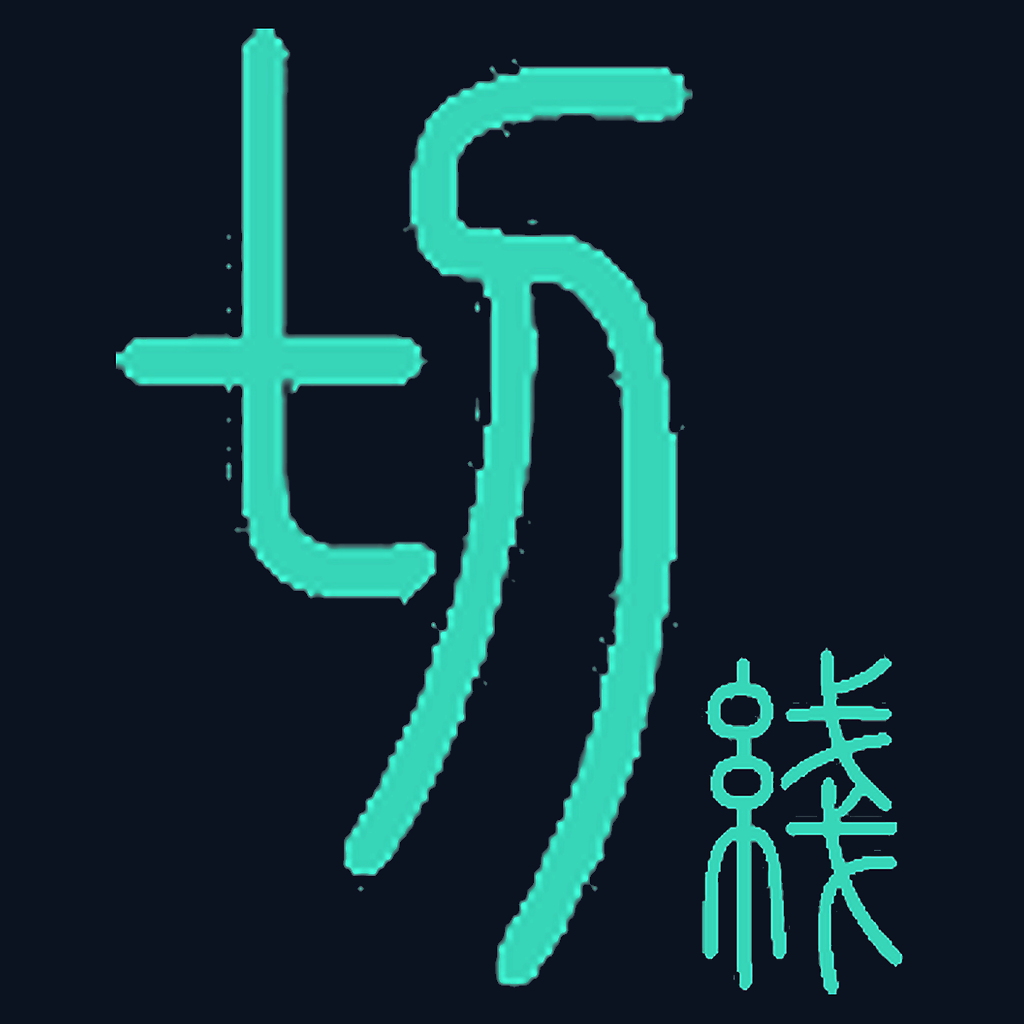
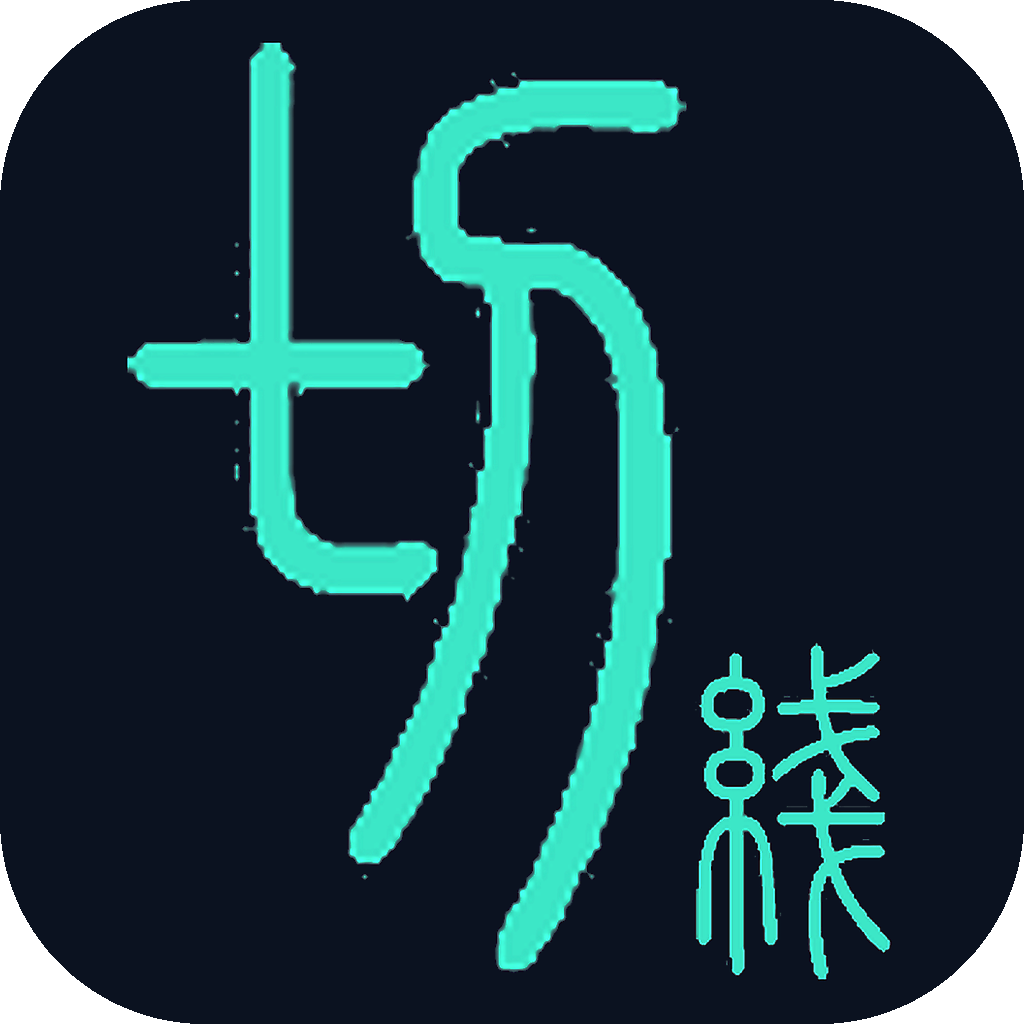
feat(ui): 圆角应用图标并在更新检查完成后清理临时运行日志

diff --git a/src/git_gui/utils/logger.py b/src/git_gui/utils/logger.py
@@ -39,10 +39,17 @@ class OperationLogger:
 
     为什么独立成类：便于在多线程环境中安全追加日志，同时控制内存 (限制行数)。
     """
-    def __init__(self, max_lines: int = 500, on_log_updated: Optional[Callable[[str], None]] = None):
+    def __init__(
+        self,
+        max_lines: int = 500,
+        on_log_updated: Optional[Callable[[str], None]] = None,
+        on_log_refresh: Optional[Callable[[list[str]], None]] = None,
+    ):
         self.max_lines = max_lines
         self.on_log_updated = on_log_updated
+        self.on_log_refresh = on_log_refresh
         self._logs: list[str] = []
+        self._ephemeral_logs: set[str] = set()
         self._start_time: Optional[float] = None
 
     def start_operation(self, operation_name: str) -> None:
@@ -71,17 +78,49 @@ class OperationLogger:
 
         # 滚动清理，保持内存占用低
         if len(self._logs) > self.max_lines:
+            removed = self._logs[:-self.max_lines]
             self._logs = self._logs[-self.max_lines:]
+            for line in removed:
+                self._ephemeral_logs.discard(line)
 
         if self.on_log_updated:
             self.on_log_updated(log_line)
 
+    def append_ephemeral(self, message: str) -> None:
+        """追加可在更新检查等流程结束后自动移除的临时日志。"""
+        timestamp = datetime.now().strftime("%H:%M:%S")
+        log_line = f"[{timestamp}] {message}"
+        self._logs.append(log_line)
+        self._ephemeral_logs.add(log_line)
+
+        if len(self._logs) > self.max_lines:
+            removed = self._logs[:-self.max_lines]
+            self._logs = self._logs[-self.max_lines:]
+            for line in removed:
+                self._ephemeral_logs.discard(line)
+
+        if self.on_log_updated:
+            self.on_log_updated(log_line)
+
+    def clear_ephemeral(self) -> None:
+        """移除临时日志并刷新 UI，避免更新检查噪声长期占用运行日志区。"""
+        if not self._ephemeral_logs:
+            return
+        self._logs = [line for line in self._logs if line not in self._ephemeral_logs]
+        self._ephemeral_logs.clear()
+        if self.on_log_refresh:
+            self.on_log_refresh(list(self._logs))
+
     def clear(self) -> None:
         """清空日志 (用户手动或新操作前)。"""
         self._logs.clear()
+        self._ephemeral_logs.clear()
         self._start_time = None
         if self.on_log_updated:
             self.on_log_updated("日志已清空。")
+
+    def get_log_lines(self) -> list[str]:
+        return list(self._logs)
 
     def get_logs(self) -> str:
         return "\n".join(self._logs)

diff --git a/src/git_gui/core/update/update_controller.py b/src/git_gui/core/update/update_controller.py
@@ -55,11 +55,15 @@ class UpdateController(QObject):
         parent: QWidget,
         dispatch_to_main: Callable[[Callable], None],
         log_fn: Optional[Callable[[str], None]] = None,
+        log_ephemeral_fn: Optional[Callable[[str], None]] = None,
+        clear_ephemeral_logs_fn: Optional[Callable[[], None]] = None,
     ) -> None:
         super().__init__(parent)
         self._parent = parent
         self._dispatch_to_main = dispatch_to_main
         self._log = log_fn
+        self._log_ephemeral = log_ephemeral_fn
+        self._clear_ephemeral_logs_fn = clear_ephemeral_logs_fn
         self._settings = Settings()
         self._thread_pool = ThreadPoolManager()
         self._checking = False
@@ -112,6 +116,15 @@ class UpdateController(QObject):
         if self._log:
             self._log(message)
 
+    def _append_ephemeral_log(self, message: str) -> None:
+        fn = self._log_ephemeral or self._log
+        if fn:
+            fn(message)
+
+    def _clear_ephemeral_logs(self) -> None:
+        if self._clear_ephemeral_logs_fn:
+            self._clear_ephemeral_logs_fn()
+
     def _set_flow_locked(self, locked: bool) -> None:
         self._flow_active = locked
         lock_fn = getattr(self._parent, "set_update_flow_locked", None)
@@ -145,7 +158,7 @@ class UpdateController(QObject):
                     self._settings, self._settings.language
                 )
                 when_text = f"约 {when} 后可重试" if when else "请稍后再试"
-                self._append_log(
+                self._append_ephemeral_log(
                     t.log_skip_rate_limit_backoff.format(when=when_text)
                 )
                 if not auto:
@@ -157,7 +170,7 @@ class UpdateController(QObject):
             elif gate.silent:
                 remain_sec = startup_cooldown_remaining_seconds(self._settings)
                 if remain_sec > 0:
-                    self._append_log(
+                    self._append_ephemeral_log(
                         t.log_skip_startup_cooldown.format(
                             cooldown=startup_check_cooldown_minutes(self._settings),
                             remain=self._format_cooldown_remain(remain_sec),
@@ -167,8 +180,9 @@ class UpdateController(QObject):
 
         if auto:
             record_auto_check_attempt(self._settings)
+        self._clear_ephemeral_logs()
         self._checking = True
-        self._append_log(t.log_check_start)
+        self._append_ephemeral_log(t.log_check_start)
         parent = self._parent
         if hasattr(parent, "statusBar"):
             parent.statusBar().showMessage(t.status_checking)
@@ -229,13 +243,13 @@ class UpdateController(QObject):
         offer, failure = result
         t = get_update_texts(self._settings.language)
         if failure is not None:
-            self._append_log(failure.log_line)
             if not auto:
                 QMessageBox.warning(
                     self._parent,
                     t.msg_check_failed_title,
                     failure.dialog_message,
                 )
+            self._clear_ephemeral_logs()
             return
         if offer is None:
             if not auto:
@@ -244,10 +258,12 @@ class UpdateController(QObject):
                     t.msg_latest_title,
                     t.msg_latest_body,
                 )
+            self._clear_ephemeral_logs()
             return
         if auto:
             dismissed = str(self._settings.get("update.auto_dismissed_version", "") or "").strip()
             if dismissed == offer.version:
+                self._clear_ephemeral_logs()
                 return
         self._show_offer_dialog(offer, auto)
 
@@ -257,7 +273,6 @@ class UpdateController(QObject):
         failure = format_update_check_failure(
             self._settings.language, "unknown", detail=err
         )
-        self._append_log(failure.log_line)
         if not auto:
             t = get_update_texts(self._settings.language)
             QMessageBox.warning(
@@ -265,6 +280,7 @@ class UpdateController(QObject):
                 t.msg_check_failed_title,
                 failure.dialog_message,
             )
+        self._clear_ephemeral_logs()
 
     def _restore_status_after_check(self) -> None:
         if self._flow_active:
@@ -289,7 +305,10 @@ class UpdateController(QObject):
         if result == UpdateDialogResult.DISMISS:
             self._settings.set("update.auto_dismissed_version", offer.version)
         elif result == UpdateDialogResult.UPDATE_NOW:
+            self._clear_ephemeral_logs()
             self._start_download_and_install(offer)
+            return
+        self._clear_ephemeral_logs()
 
     def _refresh_download_progress_ui(self) -> None:
         """由主线程定时器驱动进度刷新；macOS curl 下载在此轮询子进程。"""

diff --git a/scripts/enhance_app_icon.py b/scripts/enhance_app_icon.py
@@ -9,7 +9,7 @@ import argparse
 import shutil
 from pathlib import Path
 
-from PIL import Image, ImageFilter
+from PIL import Image, ImageDraw, ImageFilter
 
 
 def _premultiply_rgba(im: Image.Image) -> Image.Image:
@@ -75,6 +75,20 @@ def _brighten_foreground(im: Image.Image, bg: tuple[int, int, int], *, thr: int,
     return out
 
 
+def _apply_rounded_corners(im: Image.Image, radius: int) -> Image.Image:
+    """按圆角矩形裁切画布，四角透明，便于 exe / 任务栏呈现现代圆角图标。"""
+    if radius <= 0:
+        return im.convert("RGBA")
+    im = im.convert("RGBA")
+    w, h = im.size
+    radius = min(radius, w // 2, h // 2)
+    mask = Image.new("L", (w, h), 0)
+    ImageDraw.Draw(mask).rounded_rectangle((0, 0, w - 1, h - 1), radius=radius, fill=255)
+    out = Image.new("RGBA", (w, h), (0, 0, 0, 0))
+    out.paste(im, (0, 0), mask)
+    return out
+
+
 def render_enhanced_icon(
     src: Path,
     *,
@@ -82,6 +96,7 @@ def render_enhanced_icon(
     fill_ratio: float,
     brighten: float,
     bg_rgb: tuple[int, int, int],
+    corner_radius_ratio: float,
 ) -> Image.Image:
     im = Image.open(src).convert("RGBA")
     bbox = im.getbbox()
@@ -107,7 +122,8 @@ def render_enhanced_icon(
 
     canvas_img = _brighten_foreground(canvas_img, bg_rgb, thr=28, mult=brighten)
     canvas_img = canvas_img.filter(ImageFilter.UnsharpMask(radius=0.55, percent=58, threshold=3))
-    return canvas_img
+    corner_radius = int(canvas * corner_radius_ratio)
+    return _apply_rounded_corners(canvas_img, corner_radius)
 
 
 def main() -> None:
@@ -128,6 +144,12 @@ def main() -> None:
     parser.add_argument("--bg-r", type=int, default=11)
     parser.add_argument("--bg-g", type=int, default=18)
     parser.add_argument("--bg-b", type=int, default=32)
+    parser.add_argument(
+        "--corner-radius-ratio",
+        type=float,
+        default=0.20,
+        help="圆角半径占画布边长比例（0 关闭；默认 0.20 接近 macOS / Win11 应用图标观感）",
+    )
     args = parser.parse_args()
     bg = (args.bg_r, args.bg_g, args.bg_b)
     img = render_enhanced_icon(
@@ -136,6 +158,7 @@ def main() -> None:
         fill_ratio=args.fill_ratio,
         brighten=args.brighten,
         bg_rgb=bg,
+        corner_radius_ratio=args.corner_radius_ratio,
     )
     args.out_png.parent.mkdir(parents=True, exist_ok=True)
     img.save(args.out_png, format="PNG", optimize=True)

diff --git a/src/git_gui/ui/main_window.py b/src/git_gui/ui/main_window.py
@@ -48,7 +48,8 @@ class MainWindow(QMainWindow):
         self.git_manager = GitManager()
         self.logger = OperationLogger(
             max_lines=self.settings.get("ui.log_max_lines", 500),
-            on_log_updated=self._on_log_updated
+            on_log_updated=self._on_log_updated,
+            on_log_refresh=self._on_log_refresh,
         )
         self.thread_pool = ThreadPoolManager()
         self.current_selected_repos: list[Path] = []
@@ -69,6 +70,8 @@ class MainWindow(QMainWindow):
             self,
             self._schedule_on_main_thread,
             log_fn=self.logger.append,
+            log_ephemeral_fn=self.logger.append_ephemeral,
+            clear_ephemeral_logs_fn=self.logger.clear_ephemeral,
         )
         self._action_check_update = None
 
@@ -1097,6 +1100,12 @@ class MainWindow(QMainWindow):
             self.log_text.append_log(text)
         else:
             self.log_text.append_log(text)
+
+    def _on_log_refresh(self, lines: list[str]) -> None:
+        """临时日志移除后重建运行日志区，保留 Git 操作等持久条目。"""
+        self.log_text.clear_logs()
+        for line in lines:
+            self.log_text.append_log(line)
 
     def closeEvent(self, event) -> None:
         """退出时保存状态；更新流程中会先取消后台下载。"""

diff --git a/assets/README.md b/assets/README.md
@@ -4,10 +4,12 @@
 - **`icon.ico`**：Windows 可执行文件图标，由 `app_icon.png` 生成（示例：`pip install pillow` 后执行下方命令），放入后重新运行 PyInstaller。
 - **`icon.icns`**：macOS `.app` / DMG 图标。在 **macOS** 上执行 `bash scripts/macos_build_icns.sh`（依赖 `sips` / `iconutil`）由 `app_icon.png` 生成后提交到 `assets/`。
 
-从 `app_icon.png` 生成多尺寸 `icon.ico`（Windows）：
+从 `app_icon.png` 生成多尺寸 `icon.ico`（Windows），含圆角裁切：
 
 ```bash
-python -c "from pathlib import Path; from PIL import Image; p=Path('assets/app_icon.png'); i=Image.open(p).convert('RGBA'); i.save(Path('assets/icon.ico'), format='ICO', sizes=[(256,256),(128,128),(64,64),(48,48),(32,32),(24,24),(16,16)])"
+python scripts/enhance_app_icon.py
 ```
+
+可选 `--corner-radius-ratio 0.20` 调整圆角（0 为直角）；默认 0.20。
 
 未放置 `icon.ico` 时 Windows 打包仍可通过，但 exe 使用 PyInstaller 默认图标。